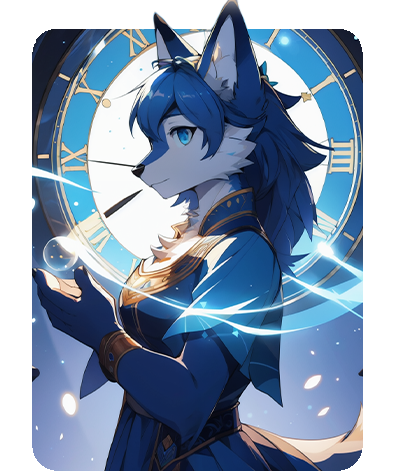
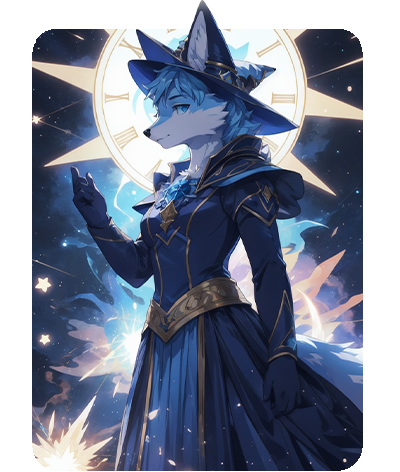
好耶！

diff --git a/asset/character.js b/asset/character.js
@@ -1072,7 +1072,7 @@ game.import('character', function (lib, game, ui, get, ai, _status) {
                     if (!map[id].extraDamage) map[id].extraDamage = 0;
                     map[id].extraDamage += 1;
                     'step 2'
-                    player.chooseToDiscard('hs', [1, Infinity], function (card) {
+                    player.chooseToDiscard('hs', [1, trigger.target.countCards('he')], function (card) {
                         return card.name == 'sha'
                     }).set('ai', function (card) {
                         return 7 - get.value(card)
@@ -1104,7 +1104,7 @@ game.import('character', function (lib, game, ui, get, ai, _status) {
                         direct: true,
                         content: () => {
                             'step 0'
-                            var num = Math.min(player.countCards('h'), player.maxHp, 3)
+                            var num = Math.min(player.countCards('h'), player.maxHp)
                             player.chooseToDiscard('h', num, true)
                             'step 1'
                             event.cards = result.cards
@@ -1140,14 +1140,14 @@ game.import('character', function (lib, game, ui, get, ai, _status) {
                             global: ["equipAfter", "addJudgeAfter", "gainAfter", "loseAsyncAfter", "addToExpansionAfter"],
                         },
                         prompt: '是否发动【地护】？',
-                        prompt2: '减少1层「免疫」并摸X张牌（X为你的体力上限且至多为3）。',
+                        prompt2: '减少1层「免疫」并摸X张牌（X为你的体力上限）。',
                         usable: 1,
                         filter: function (event, player) {
                             var evt = event.getl(player);
                             return evt && evt.cards2 && evt.cards2.length > 0
                         },
                         content: function () {
-                            var num = Math.min(player.maxHp, 3)
+                            var num = player.maxHp
                             player.draw(num)
                             player.reduceFrBuff('mianyi')
                         }
@@ -1296,16 +1296,18 @@ game.import('character', function (lib, game, ui, get, ai, _status) {
                 content: function () {
                     'step 0'
                     event.allphase = []
-                    if (get.myCompareVersion(lib.version, '1.10.3.1') > 1) {
-                        for (var i of lib.phaseName) {
-                            event.allphase.push(game.createCard2('fr_' + i, '', ''))
-                        }
+                    event.standard = []
+                    for (var i of lib.phaseName) {
+                        event.standard.push(game.createCard2('fr_' + i, '', ''))
+                    }
+                    if (get.myCompareVersion(lib.version, '1.10.3.1') < 0) {
+                        event.allphase = event.standard
                     } else {
                         for (var i of trigger.phaseList) {
                             event.allphase.push(game.createCard2('fr_' + i, '', ''))
                         }
                     }
-                    player.chooseCardButton('【时移】：选择令' + get.translation(trigger.player) + '获得的主要阶段', event.allphase.slice(1, 5))
+                    player.chooseCardButton('【时移】：选择令' + get.translation(trigger.player) + '获得的主要阶段', event.standard.slice(1, event.standard.length - 1))
                         .set('ai', function (button) {
                             var att = get.attitude(_status.event.player, trigger.player)
                             if (att > 0) {
@@ -1354,7 +1356,7 @@ game.import('character', function (lib, game, ui, get, ai, _status) {
                     }
                     'step 4'
                     event.phaseList = event.cards.map(i => i.name.replace('fr_', ''))
-                    if (get.myCompareVersion(lib.version, '1.10.3.1') > 1) {
+                    if (get.myCompareVersion(lib.version, '1.10.3.1') > 0) {
                         trigger.phaseList = event.phaseList
                         event.finish()
                     } else {
@@ -21643,7 +21645,6 @@ game.import('character', function (lib, game, ui, get, ai, _status) {
                     for (var i = 0; i < cards.length; i++) {
                         ui.cardPile.insertBefore(cards[i], ui.cardPile.childNodes[get.rand(ui.cardPile.childElementCount)]);
                     }
-                    player.addSkill('molis_hs_lock')
                     game.updateRoundNumber();
                 },
                 ai: {
@@ -21659,20 +21660,6 @@ game.import('character', function (lib, game, ui, get, ai, _status) {
                     },
                 },
                 subSkill: {
-                    lock: {
-                        trigger: {
-                            global: "roundStart",
-                        },
-                        forced: true,
-                        popup: false,
-                        silent: true,
-                        firstDo: true,
-                        content: function () {
-                            game.roundNumber -= 1;
-                            game.updateRoundNumber();
-                        },
-                        sub: true,
-                    },
                     record: {
                         trigger: {
                             global: "roundStart",
@@ -21944,7 +21931,7 @@ game.import('character', function (lib, game, ui, get, ai, _status) {
             'mokalin_sy': "碎岩",
             'mokalin_sy_info': '你使用【杀】指定一名角色为目标后，你可失去1点体力令此【杀】伤害+1，然后可以弃置任意张【杀】和其等量牌。',
             'mokalin_dh': '地护',
-            'mokalin_dh_info': '每个回合开始时，你的' + get.dialogIntro('mianyi') + '改为1层；你的「免疫」减为0后，弃置X张手牌，不足则全弃，然后可以令任意名角色获得其中一张；每回合限一次，你失去牌时，可以摸X张牌，令「免疫」层数–1（X为体力上限且至多为3）。',
+            'mokalin_dh_info': '每个回合开始时，你的' + get.dialogIntro('mianyi') + '改为1层；你的「免疫」减为0后，弃置X张手牌，不足则全弃，然后可以令任意名角色获得其中一张；每回合限一次，你失去牌时，可以摸X张牌，令「免疫」层数–1（X为体力上限）。',
             'yinlong_jh': '惊鸿',
             'yinlong_jh_info': '锁定技，弃牌阶段开始时，若你不是全场手牌唯一最多的角色，本回合手牌上限+2，否则你摸1张牌。你的♣手牌因弃置进入弃牌堆时，你可以摸<span class="bluetext">2</span>张牌并可以使用至多<span class="bluetext">1</span>张牌。',
             'yinlong_cb': '陈波',
@@ -22068,7 +22055,7 @@ game.import('character', function (lib, game, ui, get, ai, _status) {
             'keste_yg': "议攻",
             'keste_yg_info': '出牌阶段限一次，你可以选择一名角色并令该角色外的角色议事，若结果为：红色，你弃置意见为红色且可以对该角色使用【杀】的角色一张手牌，然后对视为该角色使用一张【杀】；黑色：你获得意见为黑色的角色区域内的一张牌。',
             'nine_dx': "独行",
-            'nine_dx_info': "锁定技，锁定技，①你从牌堆底摸牌、判定。②回合结束后，牌堆洗牌，洗入弃牌堆中的装备。③你弃置回合外不因此武将牌上的技能获得的牌，并摸一张牌。",
+            'nine_dx_info': "锁定技，①你从牌堆底摸牌、判定。②回合结束后，牌堆洗牌，洗入弃牌堆中的装备。③你弃置回合外不因此武将牌上的技能获得的牌，并摸一张牌。",
             'nine_fw': "附尾",
             'nine_fw_info': "每阶段内第一次失去牌后，你可以展示牌堆底7张牌和手牌，然后选择一项：①任意交换其中的顺序，②使用其中任意张装备；若为你的回合，你获得并可重铸其中未使用的、某点数的牌。",
             'nine_cj': '冲击',
@@ -22662,7 +22649,7 @@ game.import('character', function (lib, game, ui, get, ai, _status) {
             "fox_hm": "幻梦",
             "fox_hm_info": "锁定技，当你不因〖幻梦〗使用有目标的基本牌或普通锦囊牌结算完毕后，若此牌非转化且对应的实体牌数为1，你将此牌置于你的武将牌上，称为“幻”；结束阶段，若你有“幻”，你依次对所有“幻”的原目标使用这些“幻”，并弃置无法使用的“幻”。",
             "molis_hs": "回溯",
-            "molis_hs_info": "限定技，当你进入濒死状态时，你可以将场上的卡牌复原到本轮开始时的状态（包括武将牌和体力牌），然后游戏轮数锁定为当前轮次。",
+            "molis_hs_info": "限定技，当你进入濒死状态时，你可以将场上的卡牌复原到本轮开始时的状态（包括武将牌和体力牌）。",
             "marcia_ql": "潜掠",
             "marcia_ql_info": "锁定技，每回合每种颜色限一次，当你成为其他角色使用【杀】或伤害类锦囊牌的唯一目标时，若此牌对应的实体牌数为1，你取消之，然后将此牌置于你的武将牌上，称为“潜”；出牌阶段开始时，你获得武将牌上的“潜”。",
             "molis_dx": "洞悉",

diff --git a/asset/update.js b/asset/update.js
@@ -3,28 +3,34 @@ window.furry.frImport(function (lib, game, ui, get, ai, _status) {
     game.showFrChangeLog = function (version) {
         version = version || lib.extensionPack["福瑞拓展"].version;
         var changeInfo = {
-            //更新告示
-            changeLog: [
-                '/setPlayer/',
-                '/setRedoPlayer/',
-                '3.0',
-                '替换大部分武将原画',
-                '重做一些跟不上时代的角色',
-                '修复53个bug，点名表（殴）扬（打）@fox⑧',
-                '联动扩展：星穹防线（染柒）-印龙、黎玥幻歌（无冕黎明）-莫卡林',
-                '为所有原画增加了版权声明',
-                '为大量角色添加背景故事，可以在角色简介中查看',
-                '新增一段剧情-色塔卡之旅，开启新剧情地点',
-                '本次为大型更新，建议删除之前的拓展文件（可以保留save.json以保留成就进度）',
-                '获取更新可前往qq群828182346或频道等渠道',
-                'To be continued...',
-            ],
-            //更新武将
-            players: ['fr_yinlong', 'fr_mokalin', 'fr_charlin', 'fr_rabby', 'fr_siji', 'fr_sangdi'],
+            changeLog: [],
+            players: [],
             cards: [],
-            redoPlayers: ['fr_sisk', 'fr_dmoa', 'fr_molis', 'fr_dog', 'fr_kasaers', 'fr_xit', 'fr_yada']
+            redoPlayers: []
         };
         var UpdateHistory = {
+            '3.0': {
+                //更新告示
+                changeLog: [
+                    '/setPlayer/',
+                    '/setRedoPlayer/',
+                    '3.0',
+                    '替换大部分武将原画',
+                    '重做一些跟不上时代的角色',
+                    '修复53个bug，点名表（殴）扬（打）@fox⑧',
+                    '联动扩展：星穹防线（染柒）-印龙、黎玥幻歌（无冕黎明）-莫卡林',
+                    '为所有原画增加了版权声明',
+                    '为大量角色添加背景故事，可以在角色简介中查看',
+                    '新增一段剧情-色塔卡之旅，开启新剧情地点',
+                    '本次为大型更新，建议删除之前的拓展文件（可以保留save.json以保留成就进度）',
+                    '获取更新可前往qq群828182346或频道等渠道',
+                    'To be continued...',
+                ],
+                //更新武将
+                players: ['fr_yinlong', 'fr_mokalin', 'fr_charlin', 'fr_rabby', 'fr_siji', 'fr_sangdi'],
+                cards: [],
+                redoPlayers: ['fr_sisk', 'fr_dmoa', 'fr_molis', 'fr_dog', 'fr_kasaers', 'fr_xit', 'fr_yada']
+            },
             '2.4.0.4': {
                 changeLog: [
                     '2.4.0.4',

diff --git a/updatecheck.js b/updatecheck.js
@@ -1,6 +1,6 @@
 (() => ({
 	// 扩展版本
-	version: "2.4.0.5",
+	version: "3.0.1",
 
 	// 扩展的上一个版本
 	oldversion: "2.4.0.4",
@@ -16,6 +16,7 @@
 	新增一段剧情-色塔卡之旅，开启新剧情地点
 	本次为大型更新，建议删除之前的拓展文件（可以保留save.json以保留成就进度）
 	获取更新可前往qq群828182346或频道等渠道
+	为莫莉斯新增一个皮肤，替换他的原画，修复【时移】技能bug
 	To be continued...
     `,
 
@@ -40,9 +41,10 @@
 		'asset/skin.js',
 		'asset/update.js',
 		'extension.js',
-		'image/Buff/pibei.png',
-		'image/Buff/shufu.png',
-		'image/Buff/xuruo.png'
+		'image/skin/origin-lutou/fr_molis.png',
+		'image/skin/origin-lutou/fr_molis.png',
+		'image/skin/skin-lutou/fr_molis/宇宙凝视.png',
+		'image/skin/skin-standard/fr_molis/宇宙凝视.jpg'
 	],
 	// 扩展内所有文件(不包括文件夹)
 	allFiles: [
